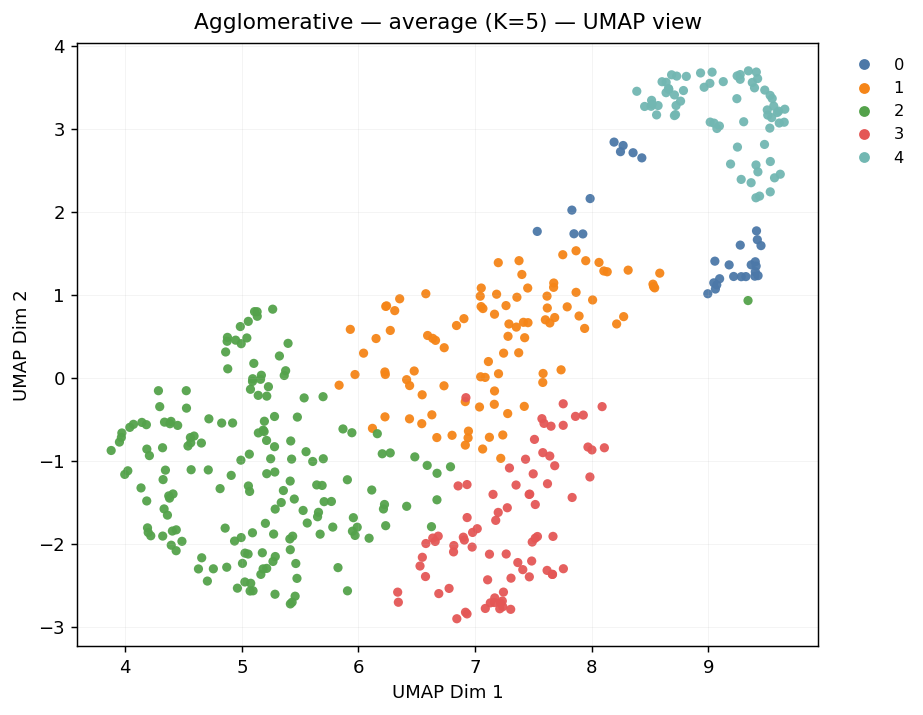
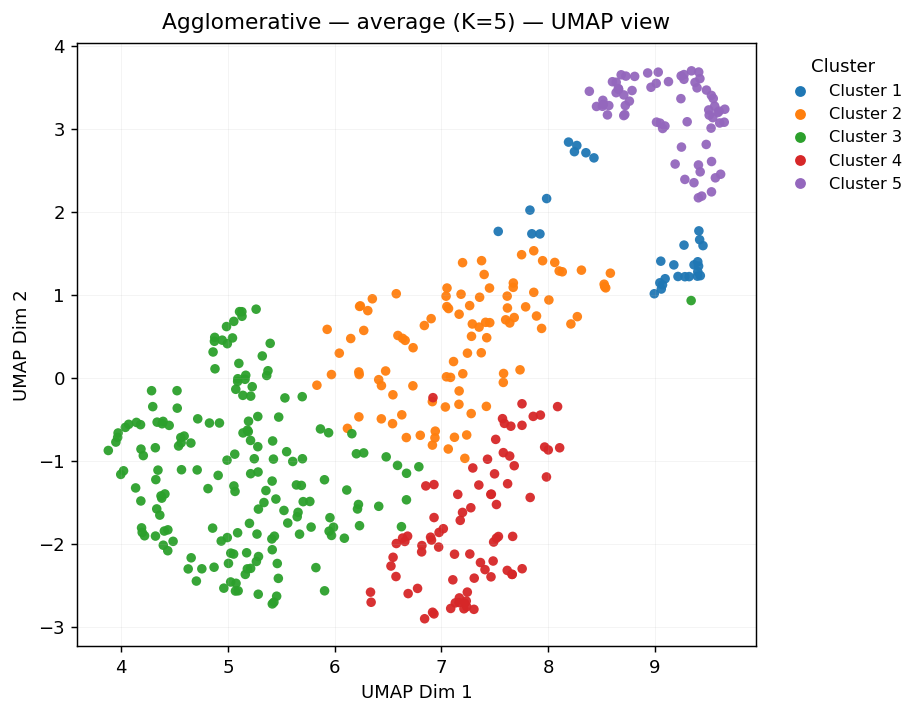
refine the output of 2a

diff --git a/Homework 2/Code/Problem_2.py b/Homework 2/Code/Problem_2.py
@@ -1,7 +1,7 @@
 '''
 Author: Chuyang Su cs4570@columbia.edu
 Date: 2025-10-30 14:36:11
-LastEditTime: 2025-10-30 20:30:35
+LastEditTime: 2025-10-30 21:13:34
 FilePath: /Unsupervised-Learning-Homework/Homework 2/Code/Problem_2.py
 Description: 
     Apply clustering techniques(KMeans, GMM, Spectral Clustering, Agglomerative Clustering, DBSCAN) to explore the BRCA gene expression data set.
@@ -73,68 +73,133 @@ PAM50_COLOR_MAP = {
     "Normal-like": "#9467bd",   # purple
 }
 
-def scatter_by_labels(X2, labels, title, outpath, xlab="Dim 1", ylab="Dim 2",
-                      color_map=None, order=None, s=26):
+def scatter_by_labels(
+    X2,
+    labels,
+    title,
+    outpath,
+    xlab="Dim 1",
+    ylab="Dim 2",
+    color_map=None,
+    order=None,
+    s=28,
+    legend_title=None,
+):
     from pathlib import Path
     outpath = Path(outpath); outpath.parent.mkdir(parents=True, exist_ok=True)
-    lbl = pd.Series(labels).astype(str).fillna("NA")
 
-    # determine unique order
-    if order is None:
-        uniq = sorted(lbl.unique())
+    lbl = pd.Series(labels)
+    if pd.api.types.is_numeric_dtype(lbl):
+        uniq_vals = sorted(lbl.unique())
+        if -1 in uniq_vals:
+            uniq_vals = [v for v in uniq_vals if v != -1] + [-1]
+        uniq = [str(v) for v in uniq_vals]
+        lbl_str = lbl.astype(str)
+        legend_names = []
+        for u in uniq_vals:
+            if u == -1:
+                legend_names.append("Noise")
+            else:
+                legend_names.append(f"Cluster {int(u)+1}")
     else:
-        # keep only those present
-        present = [u for u in order if str(u) in set(lbl)]
-        rest = [u for u in lbl.unique() if u not in present]
-        uniq = present + sorted(rest)
+        lbl_str = lbl.astype(str).fillna("NA")
+        if order is None:
+            uniq = sorted(lbl_str.unique())
+        else:
+            present = [u for u in order if str(u) in set(lbl_str)]
+            rest = [u for u in lbl_str.unique() if u not in present]
+            uniq = present + sorted(rest)
+        legend_names = uniq
 
-    # color picking
     colors = []
-    if color_map is None:
-        # fallback palette (cleaner than default)
-        base = ["#4C78A8","#F58518","#54A24B","#E45756","#72B7B2",
-                "#EECA3B","#B279A2","#FF9DA6","#9D755D","#BAB0AC"]
-        while len(base) < len(uniq):
-            base = base + base  # simple extend
-        colors = base[:len(uniq)]
-    else:
+    if color_map is not None:
         for u in uniq:
-            ckey = u if u in color_map else u.lower()
-            colors.append(color_map.get(ckey, "#999999"))
+            key = u if u in color_map else u.lower()
+            colors.append(color_map.get(key, "#9E9E9E"))
+    else:
+        # clean, professional palette (Tableau 20-ish extended) + reserved gray for Noise
+        base = ["#1f77b4","#ff7f0e","#2ca02c","#d62728","#9467bd",
+                "#8c564b","#e377c2","#7f7f7f","#bcbd22","#17becf",
+                "#4C78A8","#F58518","#54A24B","#E45756","#72B7B2",
+                "#EECA3B","#B279A2","#FF9DA6","#9D755D","#BAB0AC"]
+        # if there is a "Noise" class, make it light gray
+        if pd.api.types.is_numeric_dtype(lbl) and (-1 in lbl.unique()):
+            # map last label (Noise) to gray
+            need = len(uniq) - 1
+            while len(base) < need:
+                base = base + base
+            colors = base[:need] + ["#C0C0C0"]
+        else:
+            need = len(uniq)
+            while len(base) < need:
+                base = base + base
+            colors = base[:need]
 
-    # map labels -> indices
-    idx_map = {u:i for i,u in enumerate(uniq)}
-    idx = lbl.map(idx_map).values
+    # map label string -> palette index
+    idx_map = {u: i for i, u in enumerate(uniq)}
+    idx = lbl_str.map(idx_map).values
+    point_colors = [colors[i] for i in idx]
 
     plt.figure(figsize=(7.2, 5.6), dpi=130)
-    plt.scatter(X2[:,0], X2[:,1], c=[colors[i] for i in idx],
-                s=s, alpha=0.95, edgecolors='none')
+    plt.scatter(X2[:, 0], X2[:, 1], c=point_colors, s=s, alpha=0.95, edgecolors='none')
     plt.xlabel(xlab); plt.ylabel(ylab); plt.title(title, pad=8)
+    plt.grid(True, linewidth=0.3, alpha=0.25)
 
-    # legend
-    handles = [plt.Line2D([0],[0], marker='o', linestyle='',
+    handles = [plt.Line2D([0], [0], marker='o', linestyle='',
                           markersize=6, markerfacecolor=colors[i],
                           markeredgecolor='none') for i in range(len(uniq))]
-    if len(uniq) <= 25:
-        plt.legend(handles, uniq, bbox_to_anchor=(1.02,1), loc='upper left',
-                   fontsize=9, frameon=False)
-    plt.grid(True, linewidth=0.3, alpha=0.25)
-    plt.tight_layout()
-    plt.savefig(outpath, bbox_inches='tight'); plt.close()
+    if legend_title is None:
+        legend_title = "Cluster" if pd.api.types.is_numeric_dtype(lbl) else "Label"
+    if len(legend_names) <= 25:
+        plt.legend(handles, legend_names,
+                   bbox_to_anchor=(1.02, 1), loc='upper left',
+                   fontsize=9, frameon=False, title=legend_title)
 
+    plt.tight_layout()
+    plt.savefig(outpath, bbox_inches='tight')
+    plt.close()
+    
 def plot_pam50(X2, pam50_series, title, outpath, xlab, ylab):
-    order = ["Luminal A", "Luminal B", "Basal-like", "HER2-enriched", "Normal-like"]
-    scatter_by_labels(
-        X2, pam50_series, title, outpath,
-        xlab=xlab, ylab=ylab,
-        color_map=PAM50_COLOR_MAP, order=order, s=28
-    )
+    outpath.parent.mkdir(parents=True, exist_ok=True)
+
+    # enforce canonical label order
+    ordered_labels = ["Basal-like", "Luminal A", "Luminal B", "HER2-enriched", "Normal-like"]
+    pam50 = pam50_series.astype(str).fillna("NA")
+
+    # color list in that order
+    colors = [PAM50_COLOR_MAP.get(lbl, "#999999") for lbl in ordered_labels]
+
+    # map label -> index for plotting
+    idx_map = {lbl: i for i, lbl in enumerate(ordered_labels)}
+    idx = [idx_map.get(v, -1) for v in pam50]
+    point_colors = [colors[i] if i >= 0 else "#999999" for i in idx]
+
+    plt.figure(figsize=(7, 5.5), dpi=130)
+    plt.scatter(X2[:, 0], X2[:, 1], c=point_colors, s=30, alpha=0.95, edgecolors="none")
+    plt.xlabel(xlab); plt.ylabel(ylab)
+    plt.title(title, pad=8)
+    plt.grid(True, linewidth=0.3, alpha=0.25)
+
+    # legend — fixed text order and color
+    handles = [plt.Line2D([0], [0], marker='o', linestyle='',
+                            markersize=6, markerfacecolor=colors[i],
+                            markeredgecolor='none')
+                for i in range(len(ordered_labels))]
+    legend_labels = ["Basal-like", "Luminal A", "Luminal B",
+                        "HER2-enriched", "Normal-like"]
+    plt.legend(handles, legend_labels,
+                bbox_to_anchor=(1.02, 1), loc='upper left',
+                fontsize=9, frameon=False, title="Subtype")
+
+    plt.tight_layout()
+    plt.savefig(outpath, bbox_inches="tight")
+    plt.close()
 
 def compute_embeddings(X, seed=0, n_pcs_feat=30):
     # PCA for visualization (2D) and as preprocessor for UMAP
     X_pca2 = PCA(n_components=2, random_state=seed).fit_transform(X)
     X_pca30 = PCA(n_components=min(n_pcs_feat, X.shape[1]), random_state=seed).fit_transform(X)
-
+    
     # UMAP on PCA-30
     u10 = umap.UMAP(n_components=10, n_neighbors=10, min_dist=0.0,
                     random_state=seed, metric="euclidean")
@@ -144,59 +209,93 @@ def compute_embeddings(X, seed=0, n_pcs_feat=30):
                    random_state=seed, metric="euclidean")
     X_umap2 = u2.fit_transform(X_pca30)
 
-    return X_pca2, X_umap10, X_umap2
+    return X_pca2, X_pca30, X_umap10, X_umap2
 
-def clustering_all(X_umap10, X_umap2, outdir: Path, seed=0):
+def clustering_all(X_umap10, X_umap2, X_spectral_input, outdir: Path, seed=0):
     k = 5  # PAM50 count
 
-    # KMeans
     labels = KMeans(n_clusters=k, n_init=20, random_state=seed).fit_predict(X_umap10)
-    scatter_by_labels(X_umap2, labels, "KMeans (K=5) — UMAP view", outdir / "cluster__kmeans_k5_umap2.png",
-                      "UMAP Dim 1", "UMAP Dim 2")
+    scatter_by_labels(
+        X_umap2, labels,
+        "KMeans (K=5) — UMAP view",
+        outdir / "cluster__kmeans_k5_umap2.png",
+        "UMAP Dim 1", "UMAP Dim 2",
+        legend_title="Cluster"
+    )
 
-    # Spectral (nearest neighbors affinity)
-    labels = SpectralClustering(n_clusters=k, affinity="nearest_neighbors",
-                                n_neighbors=10, assign_labels="kmeans",
-                                random_state=seed, n_init=10).fit_predict(X_umap10)
-    scatter_by_labels(X_umap2, labels, "Spectral (NN=10, K=5) — UMAP view",
-                      outdir / "cluster__spectral_nn10_k5_umap2.png", "UMAP Dim 1", "UMAP Dim 2")
+    # Spectral on PCA
+    labels = SpectralClustering(
+        n_clusters=k, affinity="nearest_neighbors",
+        n_neighbors=10, assign_labels="kmeans",
+        random_state=seed, n_init=10
+    ).fit_predict(X_spectral_input)
+    scatter_by_labels(
+        X_umap2, labels, 
+        "Spectral (fit on PCA, view in UMAP)",
+        outdir / "cluster__spectral_pca_umap2.png", 
+        "UMAP Dim 1", "UMAP Dim 2",
+        legend_title="Cluster"
+    )
 
-    # GMM
-    labels = GaussianMixture(n_components=k, covariance_type="full",
-                             random_state=seed, n_init=5).fit_predict(X_umap10)
-    scatter_by_labels(X_umap2, labels, "GMM (K=5, full) — UMAP view", outdir / "cluster__gmm_k5_umap2.png",
-                      "UMAP Dim 1", "UMAP Dim 2")
+    
+    labels = GaussianMixture(
+        n_components=k, covariance_type="full",
+        random_state=seed, n_init=5
+    ).fit_predict(X_umap10)
+    scatter_by_labels(
+        X_umap2, labels,
+        "GMM (K=5, full) — UMAP view",
+        outdir / "cluster__gmm_k5_umap2.png",
+        "UMAP Dim 1", "UMAP Dim 2",
+        legend_title="Cluster"
+    )
 
-    # DBSCAN
     labels = DBSCAN(eps=0.5, min_samples=10, metric="euclidean").fit_predict(X_umap10)
-    scatter_by_labels(X_umap2, labels, "DBSCAN (eps=0.5, min=10) — UMAP view",
-                      outdir / "cluster__dbscan_eps0p5_min10_umap2.png", "UMAP Dim 1", "UMAP Dim 2")
+    scatter_by_labels(
+        X_umap2, labels,
+        "DBSCAN (eps=0.5, min=10) — UMAP view",
+        outdir / "cluster__dbscan_eps0p5_min10_umap2.png",
+        "UMAP Dim 1", "UMAP Dim 2",
+        legend_title="Cluster"
+    )
 
-    # Hierarchical (ward / average / complete). Single excluded by design.
     new_api = vparse(sklearn.__version__) >= vparse("1.2")
 
-    # ward
     labels = AgglomerativeClustering(n_clusters=k, linkage="ward").fit_predict(X_umap10)
-    scatter_by_labels(X_umap2, labels, "Agglomerative — ward (K=5) — UMAP view",
-                      outdir / "cluster__agg_ward_k5_umap2.png", "UMAP Dim 1", "UMAP Dim 2")
-
-    # average
+    scatter_by_labels(
+        X_umap2, labels,
+        "Agglomerative — ward (K=5) — UMAP view",
+        outdir / "cluster__agg_ward_k5_umap2.png",
+        "UMAP Dim 1", "UMAP Dim 2",
+        legend_title="Cluster"
+    )
+    
     if new_api:
         model = AgglomerativeClustering(n_clusters=k, linkage="average", metric="euclidean")
     else:
         model = AgglomerativeClustering(n_clusters=k, linkage="average", affinity="euclidean")
     labels = model.fit_predict(X_umap10)
-    scatter_by_labels(X_umap2, labels, "Agglomerative — average (K=5) — UMAP view",
-                      outdir / "cluster__agg_average_k5_umap2.png", "UMAP Dim 1", "UMAP Dim 2")
+    scatter_by_labels(
+        X_umap2, labels,
+        "Agglomerative — average (K=5) — UMAP view",
+        outdir / "cluster__agg_average_k5_umap2.png",
+        "UMAP Dim 1", "UMAP Dim 2",
+        legend_title="Cluster"
+    )
 
-    # complete
     if new_api:
         model = AgglomerativeClustering(n_clusters=k, linkage="complete", metric="euclidean")
     else:
         model = AgglomerativeClustering(n_clusters=k, linkage="complete", affinity="euclidean")
     labels = model.fit_predict(X_umap10)
-    scatter_by_labels(X_umap2, labels, "Agglomerative — complete (K=5) — UMAP view",
-                      outdir / "cluster__agg_complete_k5_umap2.png", "UMAP Dim 1", "UMAP Dim 2")
+    scatter_by_labels(
+        X_umap2, labels,
+        "Agglomerative — complete (K=5) — UMAP view",
+        outdir / "cluster__agg_complete_k5_umap2.png",
+        "UMAP Dim 1", "UMAP Dim 2",
+        legend_title="Cluster"
+    )
+
 
 def run(
     data_path="Homework 2/Code/Data/BRCA_data.csv",
@@ -210,12 +309,12 @@ def run(
     pam50 = meta["subtype"] if "subtype" in meta.columns else pd.Series(["NA"] * X.shape[0])
 
     # embeddings (PCA-2 and UMAP-2 are the only two embedding figures we save)
-    X_pca2, X_umap10, X_umap2 = compute_embeddings(X, seed=seed, n_pcs_feat=30)
+    X_pca2, X_pca30, X_umap10, X_umap2 = compute_embeddings(X, seed=seed, n_pcs_feat=30)
     plot_pam50(X_pca2, pam50, "PAM50 — PCA (2D)",
                outdir / "pam50__pca2.png", "PCA Dim 1", "PCA Dim 2")
     plot_pam50(X_umap2, pam50, "PAM50 — UMAP (2D)",
                outdir / "pam50__umap2.png", "UMAP Dim 1", "UMAP Dim 2")
-    clustering_all(X_umap10, X_umap2, outdir, seed=seed)
+    clustering_all(X_umap10, X_umap2, X_pca30, outdir, seed=seed)
 
 
 if __name__ == "__main__":

diff --git a/Homework 2/Latex/中文报告文案.md b/Homework 2/Latex/中文报告文案.md
@@ -1,10 +1,18 @@
 <!--
  * @Author: Chuyang Su cs4570@columbia.edu
  * @Date: 2025-10-09 12:38:18
- * @LastEditors: Schuyn 98257102+Schuyn@users.noreply.github.com
- * @LastEditTime: 2025-10-15 10:41:51
+ * @LastEditors: Please set LastEditors
+ * @LastEditTime: 2025-10-30 21:09:50
  * @FilePath: /Unsupervised-Learning-Homework/Homework 2/Latex/中文报告文案.md
  * @Description: 
    * 这是我的作业文稿中文版，用md语言进行书写
  * 不要为了努力道歉
 -->
+在对数据进行聚类之前，我先对数据应用了降维方法，基于Homework 1的结论，以及对于这个数据集和本次实验目标————在其上进行聚类————的理解，我这次选用了PCA之后实施UMAP方法的策略，将数据压缩至二维，这样做的意义有：
+- PCA可以去掉多余的噪声变量，压缩维度
+- UMAP可以在PCA空间上进一步压缩维度，方便之后的可视化的同时也可以更直观地揭示局部结构
+参数选择上，这里直接使用在Homework 1得到的结论：
+- PCA选择CV图中的肘区位置30作为超参数，也即保留前30个主成分，这是在保留最多有效信息的前提下最大程度的降维
+- UMAP则通过热力图，选择n_neighbors=10, min_dist=0.0, n_components=2 or 10作为参数，其中2d主要是用于可视化，而10d是用于后续聚类操作的输入。
+
+在处理完降维之后，我们用这部分数据依次分别进行了KMeans, GMM, Spectral Clustering, Agglomerative Clustering, DBSCAN的聚类操作，其中由于spectral clustering在其内部已经做了类似umap的工作，在umap空间上运行spectral clustering会尝试在已经被扭曲过一次的图上进行谱分解，这相当于是在一个局部解上进行全局的最优化，这将无疑导致灾难性的后果，因此我选择在pca上进行spectral clustering的求解。
